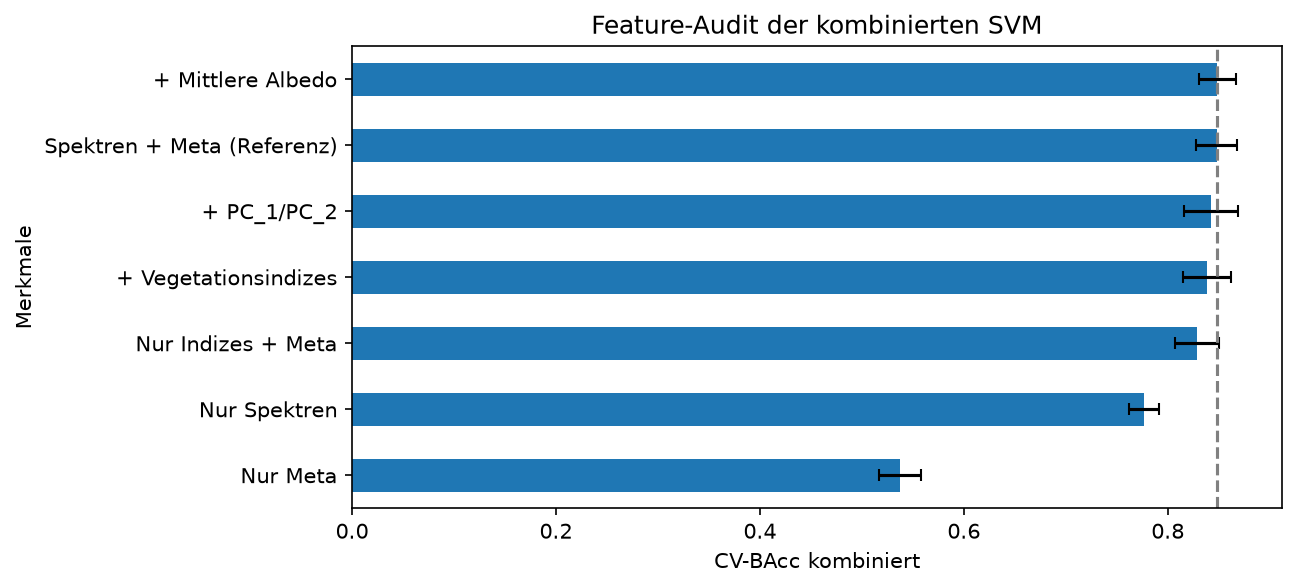
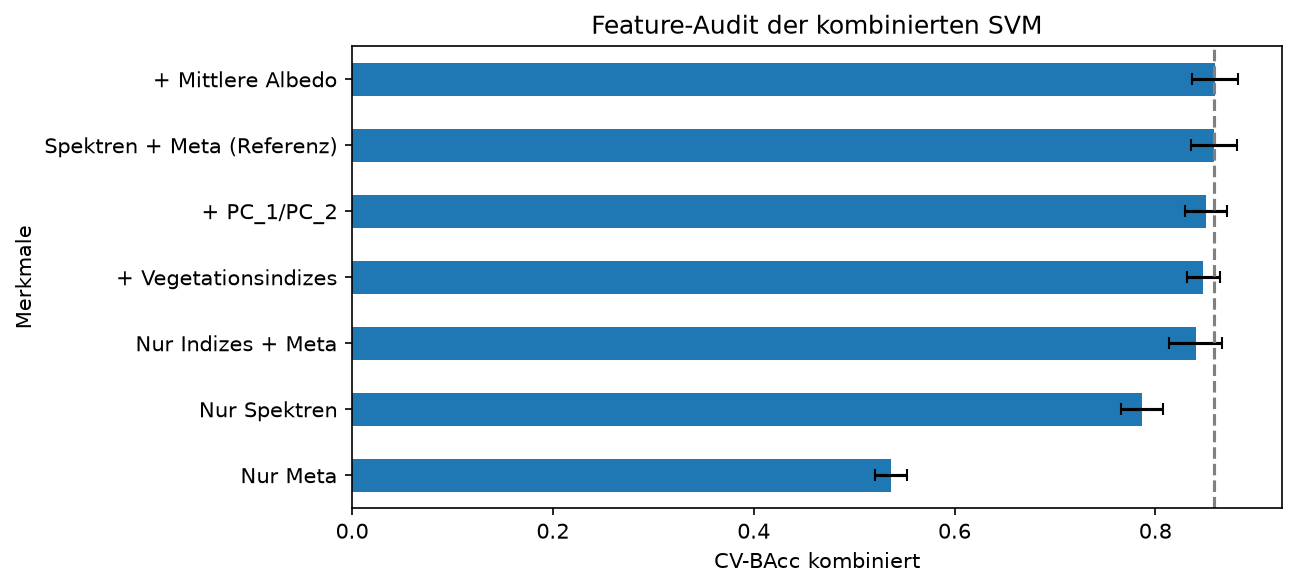
exp: rerun data-reduction study on the 80/20 split

diff --git a/docs/modelle/experimente.md b/docs/modelle/experimente.md
@@ -40,8 +40,8 @@ Run-ID ([Experimente & MLflow](../entwicklung/tracking.md)).
 | 2026-10-16 | hierarchical_lstm_standard | QMoWo | Hierarchisch | 0.810 | 0.657 | 0.486 | 0.448 | 0.695 | – | Harter LSTM → LSTM mit Standardkontext, 64 → 64 Einheiten; CV 0.497, keine ungültigen Paare. MLflow-Tracking fehlgeschlagen (`/C:`). |
 | 2026-10-16 | hierarchical_lstm_embeddings | QMoWo | Hierarchisch | 0.812 | 0.778 | 0.568 | 0.529 | 0.748 | – | Harter LSTM → LSTM mit Embeddings, 32 → 64 Einheiten; CV 0.546, keine ungültigen Paare. MLflow-Tracking fehlgeschlagen (`/C:`). |
 | 2026-10-16 | multi_task_lstm_embeddings | QMoWo | Multi-Task | 0.796 | 0.744 | 0.417 | 0.388 | 0.717 | – | Multi-Task-LSTM mit AEZ-/Monatsembeddings, 64 Einheiten; CV 0.458, keine ungültigen Paare. MLflow-Tracking fehlgeschlagen (`/C:`). |
-| 2026-10-20 | reduction_svm_all_bands | Datata1 | Kombinierte Klasse | 0.925 | 0.901 | 0.859 | 0.817 | 0.902 | 706e5478 | Referenz der Datenreduktionsstudie (#155, Experiment `band-reduction`): 131 gemessene Bänder + AEZ + zyklischer Monat, `C=300`, `gamma=0.001`; Tuning `reduction_svm_all_bands` (33712934), CV 0.848; keine ungültigen Paare |
-| 2026-10-20 | reduction_svm_sentinel2 | Datata1 | Kombinierte Klasse | 0.927 | 0.898 | 0.859 | 0.816 | 0.903 | df2f00d0 | Simulierte 10 Sentinel-2-Bänder statt 131 Hyperion-Bändern, per CV-Regel gewählt (höchstens 0,01 Verlust, wenigste Bänder); Tuning `reduction_svm_sentinel2` (ddf69d89), CV 0.852; gleiche Qualität mit 92 % weniger Bändern |
+| 2026-10-20 | reduction_svm_all_bands | Datata1 | Kombinierte Klasse | 0.920 | 0.913 | 0.866 | 0.859 | 0.917 | dac6bb78 | **80/20-Split.** Referenz der Datenreduktionsstudie (#155, Experiment `band-reduction`): 131 gemessene Bänder + AEZ + zyklischer Monat, `C=300`, `gamma=0.003`; Tuning `reduction_svm_all_bands` (9298d937), CV 0.859; keine ungültigen Paare |
+| 2026-10-20 | reduction_svm_sentinel2 | Datata1 | Kombinierte Klasse | 0.931 | 0.905 | 0.857 | 0.813 | 0.905 | 53cd0e6d | **80/20-Split.** Simulierte 10 Sentinel-2-Bänder statt 131, per CV-Regel gewählt (≤ 0,01 Verlust, wenigste Bänder), `C=300`, `gamma=0.03`; Tuning `reduction_svm_sentinel2` (0ac067c3), CV 0.860. BAcc −0.008 bei 92 % weniger Bändern; Macro-F1 −0.046 durch Fehlalarme in Klassen mit 2–13 Beispielen |
 
 ## Abweichende Split-Protokolle
 
@@ -71,5 +71,5 @@ Diese Läufe verwenden ausschließlich die Trainingsfolds. Sie haben keine Valid
 | 2026-10-12 | hierarchical_prep_*_search | Datata1 | Hierarchisch | 0.842 (Savitzky-Golay) | 5a21e11a | Je eine Vorverarbeitungs-Änderung auf Stadium `C=1000` (Basis 0.840, #89), gamma bisher/`scale`: Savitzky-Golay 0.842, PCA 60 0.840, Monat numerisch 0.839, PCA 30 0.839, Indizes 0.839, PCA 15 0.831, SNV 0.822. Kein Gewinn ≥ 0.005 – keine Kombination, keine Validierung. Runs: SNV c81bd2e6, PCA 15/30/60 715d5390/4c8cdc20/58b2f7e9, Indizes 7e153174, Monat a3d29cf0. |
 | 2026-10-12 | hierarchical_mixed_search | Datata1 | Hierarchisch | 0.839 | 050b8253 | Mischung der Stufen (#104): Kultur ∈ {SVM, logistische Regression, kNN} × Stadium ∈ {SVM, logistische Regression, LDA, kNN} mit den Bestwerten der Einzelsuchen; SVM → SVM gewinnt (0.839), beste Mischung SVM → logistische Regression 0.827. Kein neuer Lauf. Identische frühere Läufe beim Neu-Ausführen des Notebooks: `947439b4`, `033e9f5f`. |
 | 2026-10-12 | hierarchical_ensemble_search | Datata1 | Hierarchisch | 0.844 | 9259062a | Gewichtete Abstimmung (#113, korrigierte Gleichstandsregel): RBF-SVM + jede Teilmenge aus kNN, logistischer Regression, Extra Trees × SVM-Gewicht 1/1.5/2 (21 Kandidaten, etwa 5 verschiedene Entscheidungsregeln); bestes Ensemble alle vier, Gewicht 1 (0.844) – Gewinn 0.0045 unter `MIN_CV_GAIN` 0.005, keine Validierung; SVM bleibt Referenz. |
-| 2026-10-20 | reduction_svm_* | Datata1 | Kombinierte Klasse | 0.855 (jedes 4. Band) | 877b8986 | Trade-off-Kurve über 17 Eingaben (#155), gleiches Raster `C` × `gamma`: alle Bänder 0.848; PCA 2/5/10/20/40 0.760/0.810/0.839/0.853/0.851 (immer 131 Bänder); Bandauswahl 5/10/20/40/80 0.754/0.758/0.771/0.800/0.839; jedes 2./4./8. Band 0.850/0.855/0.845; Sentinel-2 0.852; nur Indizes 0.829; nur Meta 0.537. Notebook `33_jd_datenreduktion`. |
-| 2026-10-20 | audit_svm_* | Datata1 | Kombinierte Klasse | 0.849 (+ Albedo) | a0bfe481 | Feature-Audit der Referenz (0.848): ohne Meta 0.777, + Indizes 0.839, + Albedo 0.849, + PC_1/PC_2 0.842 (nicht getrackt, Bug behoben), nur Indizes + Meta 0.829, nur Meta 0.537 – keine Zusatzgruppe trägt. Runs: no_meta 042f06f0, indices 7bcd86b3, indices_meta 9d989a2b, meta a6fcc80c. |
+| 2026-10-20 | reduction_svm_* | Datata1 | Kombinierte Klasse | 0.860 (Sentinel-2) | 0ac067c3 | **80/20-Split.** Trade-off-Kurve über 17 Eingaben (#155), gleiches Raster `C` × `gamma`: alle Bänder 0.859; PCA 2/5/10/20/40 0.765/0.811/0.846/0.851/0.856 (immer 131 Bänder); Bandauswahl 5/10/20/40/80 0.711/0.739/0.755/0.788/0.841; jedes 2./4./8. Band 0.857/0.859/0.849; Sentinel-2 0.860; nur Indizes 0.840; nur Meta 0.537. Notebook `33_jd_datenreduktion`. |
+| 2026-10-20 | audit_svm_* | Datata1 | Kombinierte Klasse | 0.859 (Referenz, + Albedo) | 7571d2ea | **80/20-Split.** Feature-Audit der Referenz: ohne Meta 0.787 (a91b83fe), + Indizes 0.848 (fded1d9c), + Albedo 0.859 (79394678), + PC_1/PC_2 0.850 (5d454ca9), nur Indizes + Meta 0.840 (f283078a), nur Meta 0.537 (56eefe21) – keine Zusatzgruppe trägt. |
